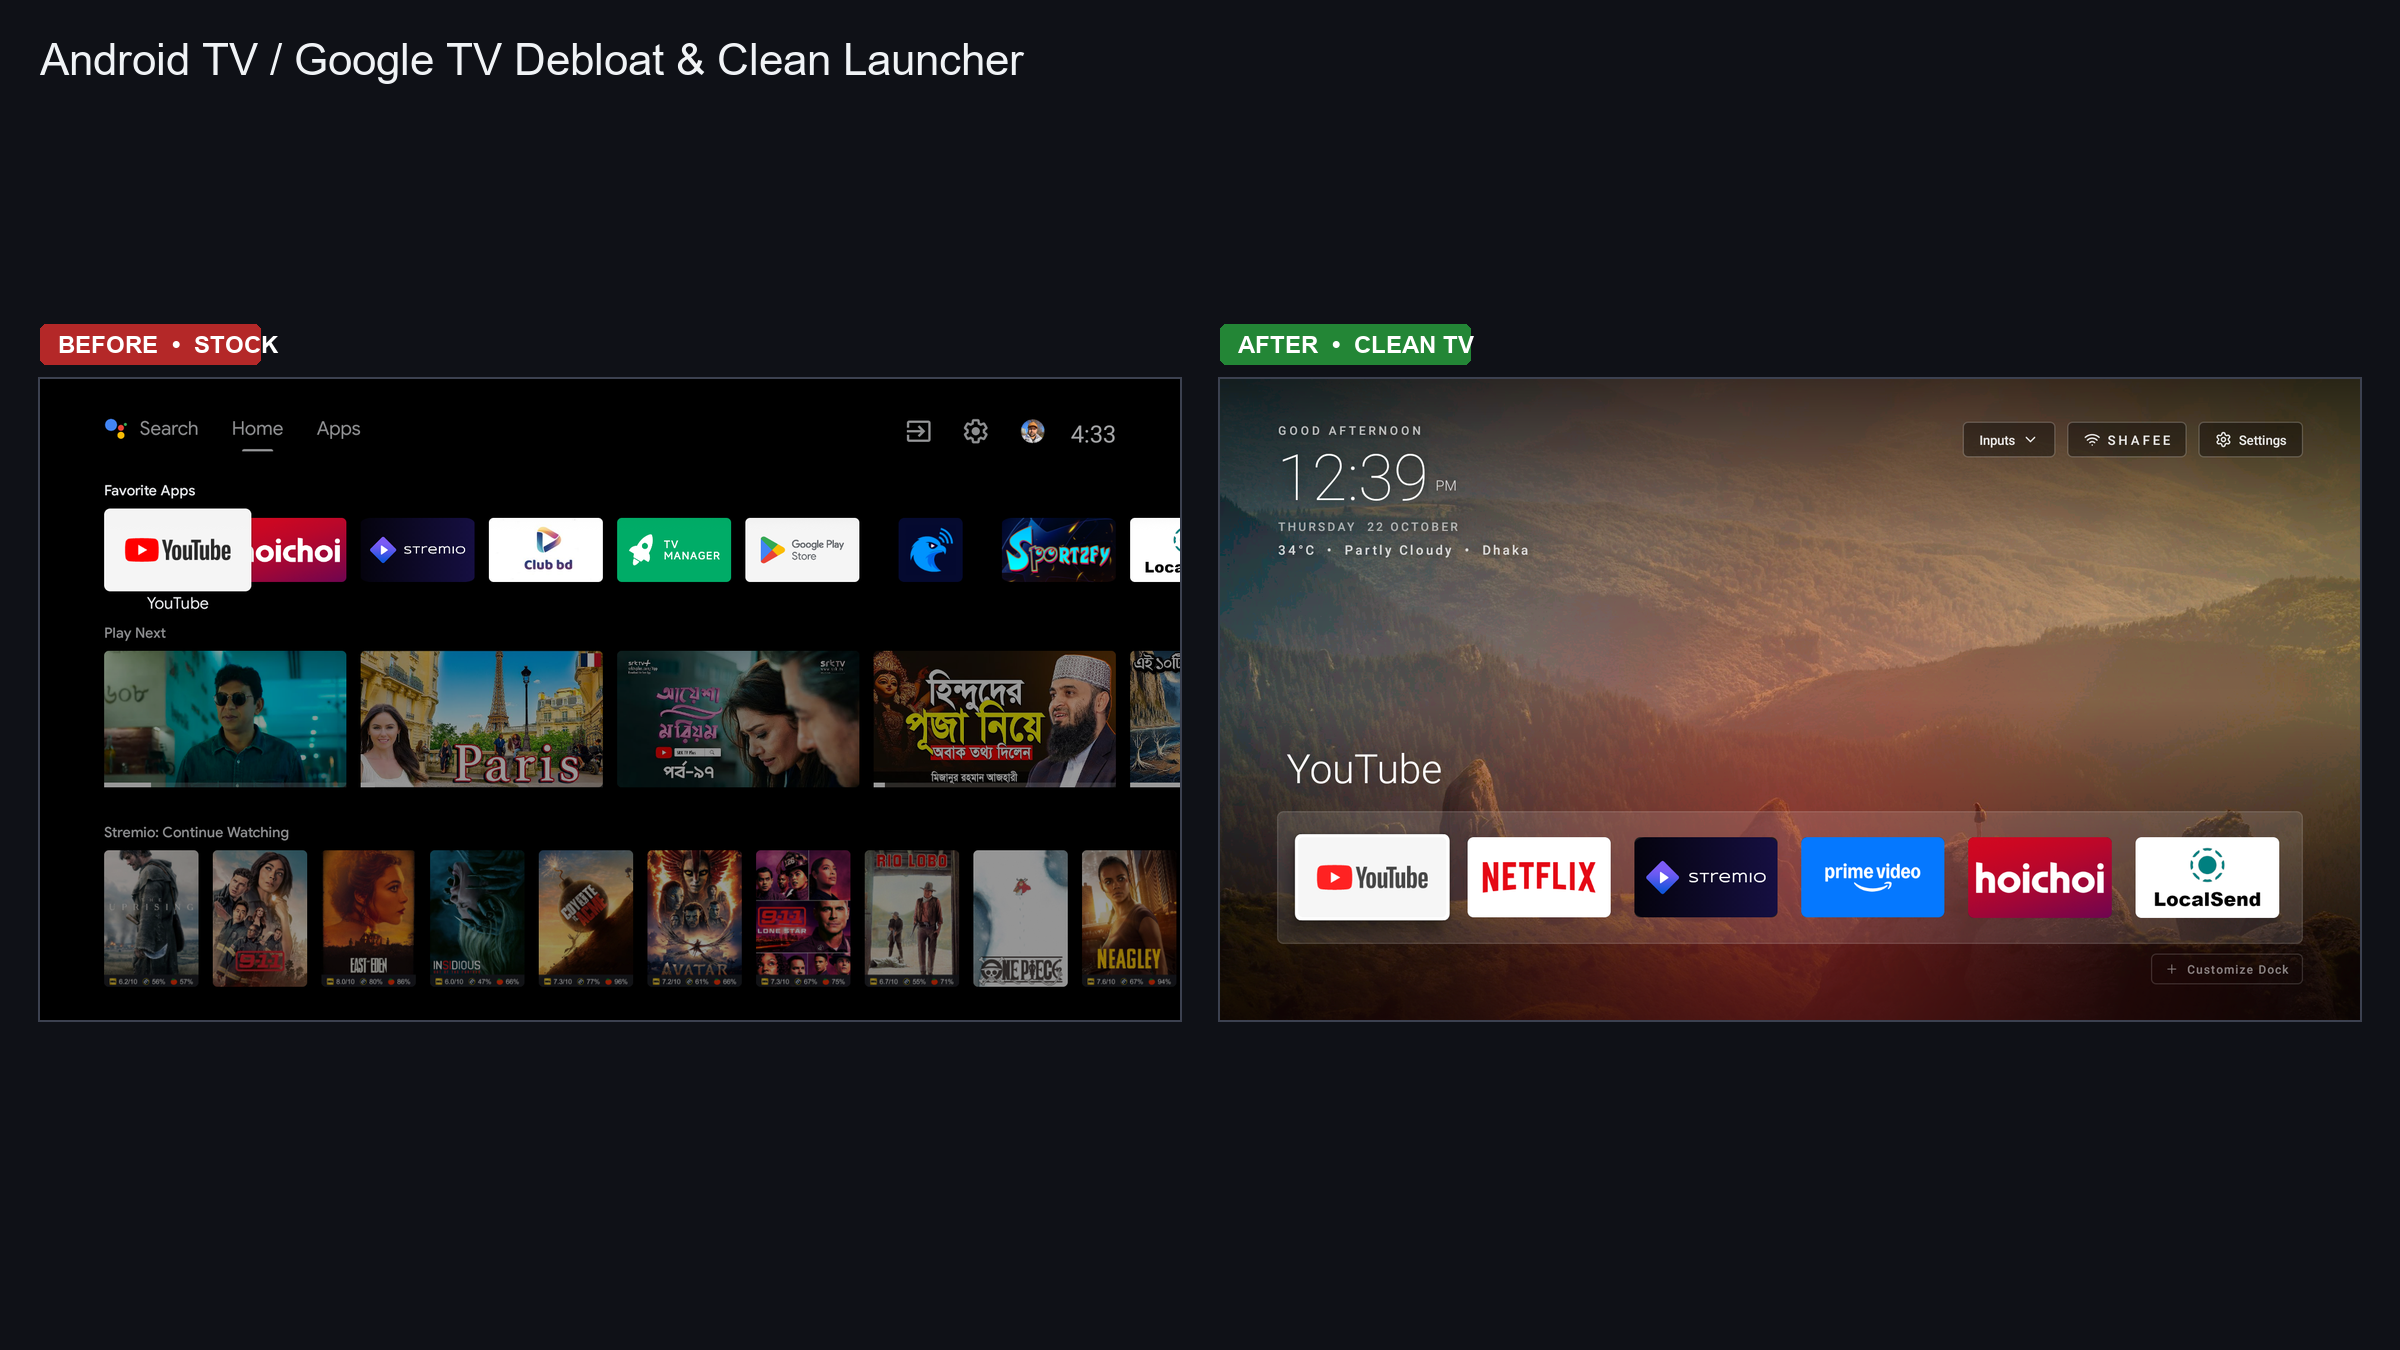
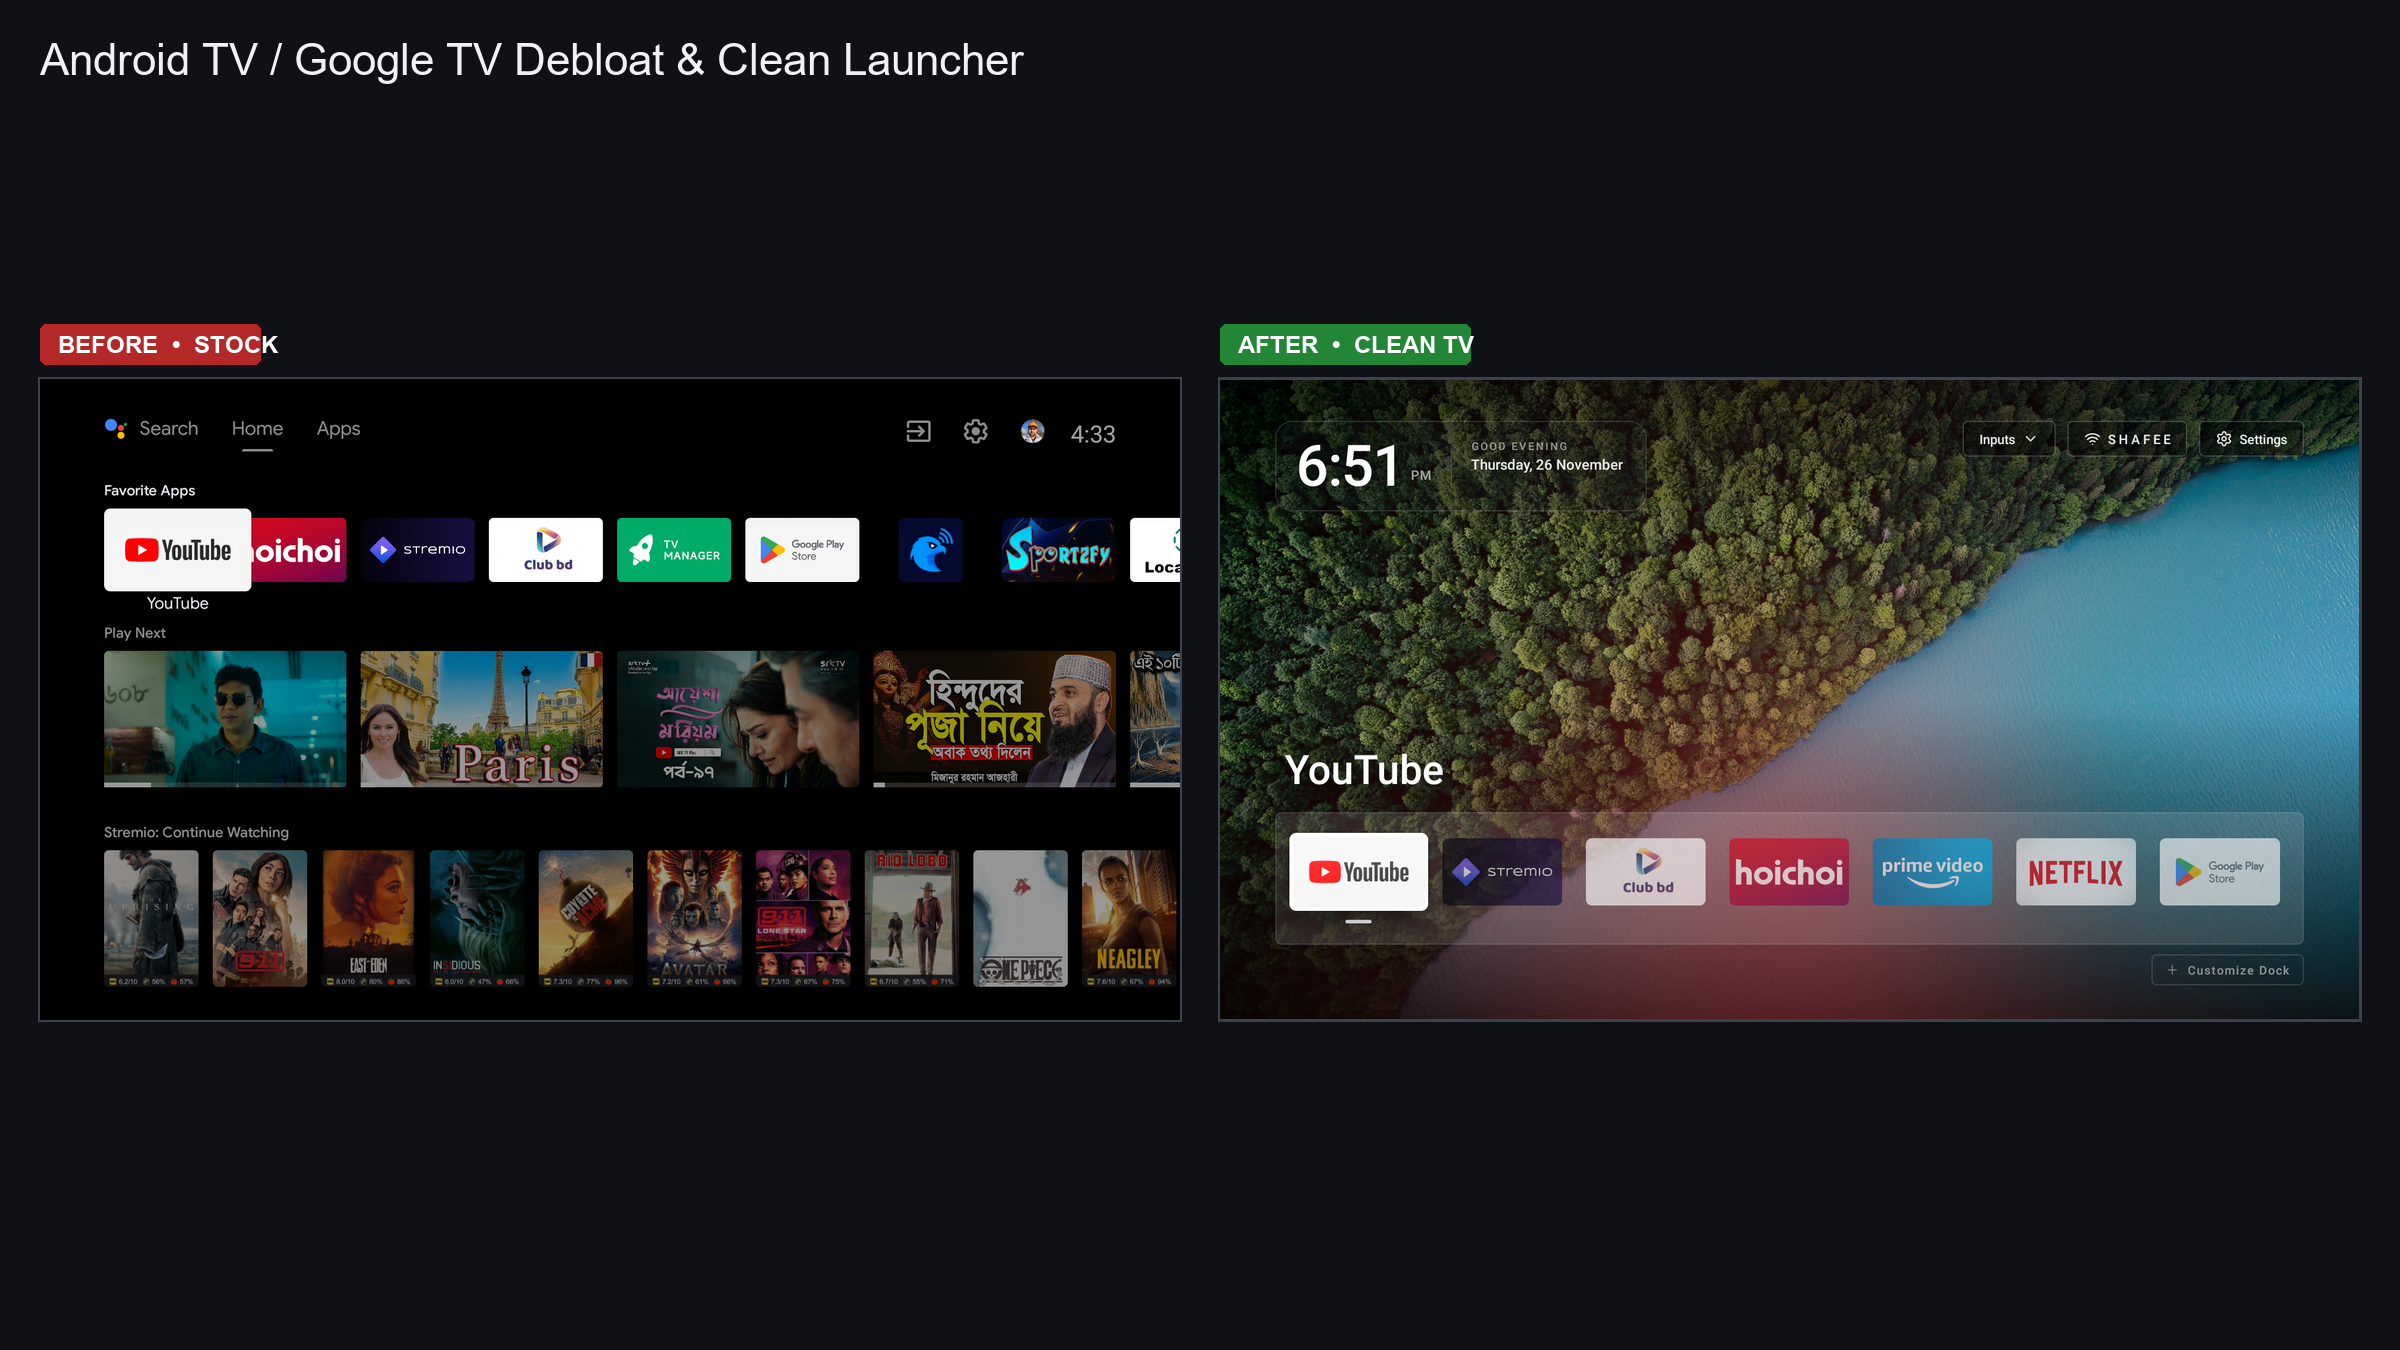
docs: update before-after photo and clean launcher screenshot
- Retake fresh 1080p screenshot from TV showing the updated Apple SF Pro clock & weather glass panel, landscape wallpaper, 1.16x dock zoom, frosted glass shine, bottom indicator pill, and app dimming
- Regenerate before-after.png comparison graphic for README
- Update docs/screenshots/home_clean.png
- Increase screenshot capture timeout to 30s in tools/tv.py

Changed region(s): [[0.5, 0.28, 1.0, 0.7467]]

diff --git a/tools/tv.py b/tools/tv.py
@@ -277,7 +277,7 @@ def cmd_shot(dev, out_path):
     if not out_path:
         out_path = "screenshot.png"
     remote_tmp = "/data/local/tmp/_shot.png"
-    dev.shell(f"screencap -p {remote_tmp}")
+    dev.shell(f"screencap -p {remote_tmp}", read_timeout_s=30)
     dev.pull(remote_tmp, out_path)
     dev.shell(f"rm -f {remote_tmp}")
     print(f"Saved screenshot to {out_path}")
